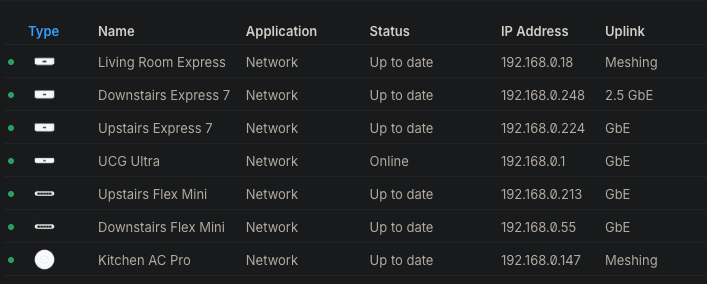
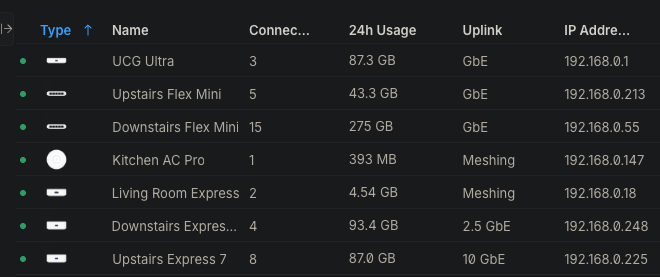
Add network page

diff --git a/network.html b/network.html
@@ -1,0 +1,60 @@
+<!DOCTYPE html>
+<html lang="en">
+<head>
+    <meta charset="UTF-8">
+    <meta name="viewport" content="width=device-width, initial-scale=1.0">
+    <title>Network on twobip.com</title>
+    <link rel="stylesheet" href="style.css">
+</head>
+<body>
+
+    <div class="container">
+        <div class="header">
+            <div class="marquee-container">
+                <div id="marquee-text" class="marquee-text">twobip.com is hosted on a hp z440 running proxmox</div>
+            </div>
+        </div>
+
+        <table class="main-table">
+            <tr>
+                <td id="sidebar-container" class="sidebar">
+                    <!-- Sidebar will be injected by scripts.js -->
+                </td>
+                <td class="content">
+                    <h1>My network</h1>
+                    <h3>My unifi network</h3>
+                    <img src="images/unifi_setup_night.webp" alt="my unifi setup" style="width: 400px;">
+                    <p>
+                    My main gateway is the UniFi Cloud Gateway ultra it is good enough for my needs (my internet is 40mbps down 8mbps up vdsl) but i want a udm pro
+                    </p>
+                    <h2>My UniFi devices</h2>
+                    <p>I have had the UCG ultra since like june or july 2025 i cant remember but it has been very good and it has made me buy more unifi things like i have 4 access points 
+                    i probably dont need that many but they can also reach to the top of my garden so my whole house and garden has wifi now</p>
+                    <img src="images/unifi_devices.png" alt="my unifi devices" style="width: 550px;">
+                    <p>2 of them are meshing which i dont like but it is the only option because i cant run any wires to them</p>
+                    <h2>Traffic</h2>
+                    <p>All of my traffic is routed through Mullvad VPN (i used to use proton but it hasnt updated in the screenshot) the ping times are quite good they only add like 1-2ms from my normal 9-10ms but i have to use the non mullvad owned ones because for some reason those ones made me get like 50-100ms more ping idk what that is <br>
+                    I do it because i dont like that my isp logs all of my traffic for 1 year and it doesnt really add any downsides except more captchas and a tiny bit more ping but tv streaming stuff doesnt work that has to go through the normal wan but i dont watch that so it doesnt matter for me
+                    It is routed through OPNSense on my Z440 so it shows up as WAN2 and it takes some load off the ucg ultra</p>
+                    <img src="images/wan2.png" alt="wan2" style="width: 300px;">
+                    <h2>Topology / Infrastructure</h2>
+                    <img src="images/infrastructure.png" alt="infrastructure" style="width: 550px;">
+                    <p>I probably need one main switch not 2 one for downstairs and one for upstairs both from the built in one maybe a Flex Mini 2.5g</p>
+                </td>
+            </tr>
+        </table>
+
+        <div class="footer">
+            <p>
+                Visitor Count: <span class="counter">craig</span>
+            </p>
+            <p>
+                This page is best viewed with
+                <img src=images/netscape.gif alt="Netscape">
+            </p>
+        </div>
+    </div>
+
+    <script src="scripts.js"></script>
+</body>
+</html>

diff --git a/mystuff.html b/mystuff.html
@@ -52,16 +52,6 @@
                     <p>
                         Click on the red ball if you want to go to any of them
                     </p> 
-                    
-                    <h2>My UniFi setup</h2>
-                    <p>I have a Unifi cloud gateway ultra and i have had it since like june or july 2025 i cant remember but it has been very good and it has made me buy more unifi things like i have 4 access points 
-                    i probably dont need that many but they can also reach to the top of my garden so my whole house and garden has wifi now</p>
-                    <img src="images/unifi_devices.png" alt="my unifi devices" style="width: 500px;">
-                    <p>2 of them are meshing which i dont like but it is the only option because i cant run any wires to them <br>
-                    Also i route all of my internet traffic through protonvpn you can do this on the ucg ultra itself but i have it going through an opnsense vm on my proxmox server so it shows up as WAN2 and i can see the stats</p>
-                    <img src="images/wan2.png" alt="wan2" style="width: 250px;">
-                    <p>That is my ping time through a vpn that is quite good it only adds like 1-2ms and my home connection is vdsl and it only has 9-10ms ping which is better than some peoples fibre connections i have seen on youtube so i dont know how that works the vpn doesnt add much latency so i never notice it only when there is those captcha things it does make more of them appear but it is better than having my isp log every ip and dns request i am doing for 12 months i dont like that</p>
-
                 </td>
             </tr>
         </table>

diff --git a/scripts.js b/scripts.js
@@ -31,6 +31,7 @@
         { name: "News", url: "news.html" },
         { name: "My stuff", url: "mystuff.html" },
         { name: "Wardriving", url: "wardriving.html" },
+        { name: "Network", url: "network.html" },
         { name: "Proxmox", url: "proxmox.html" },
         { name: "ADS-B", url: "adsb.html" },
         { name: "Photography", url: "photography.html" },
